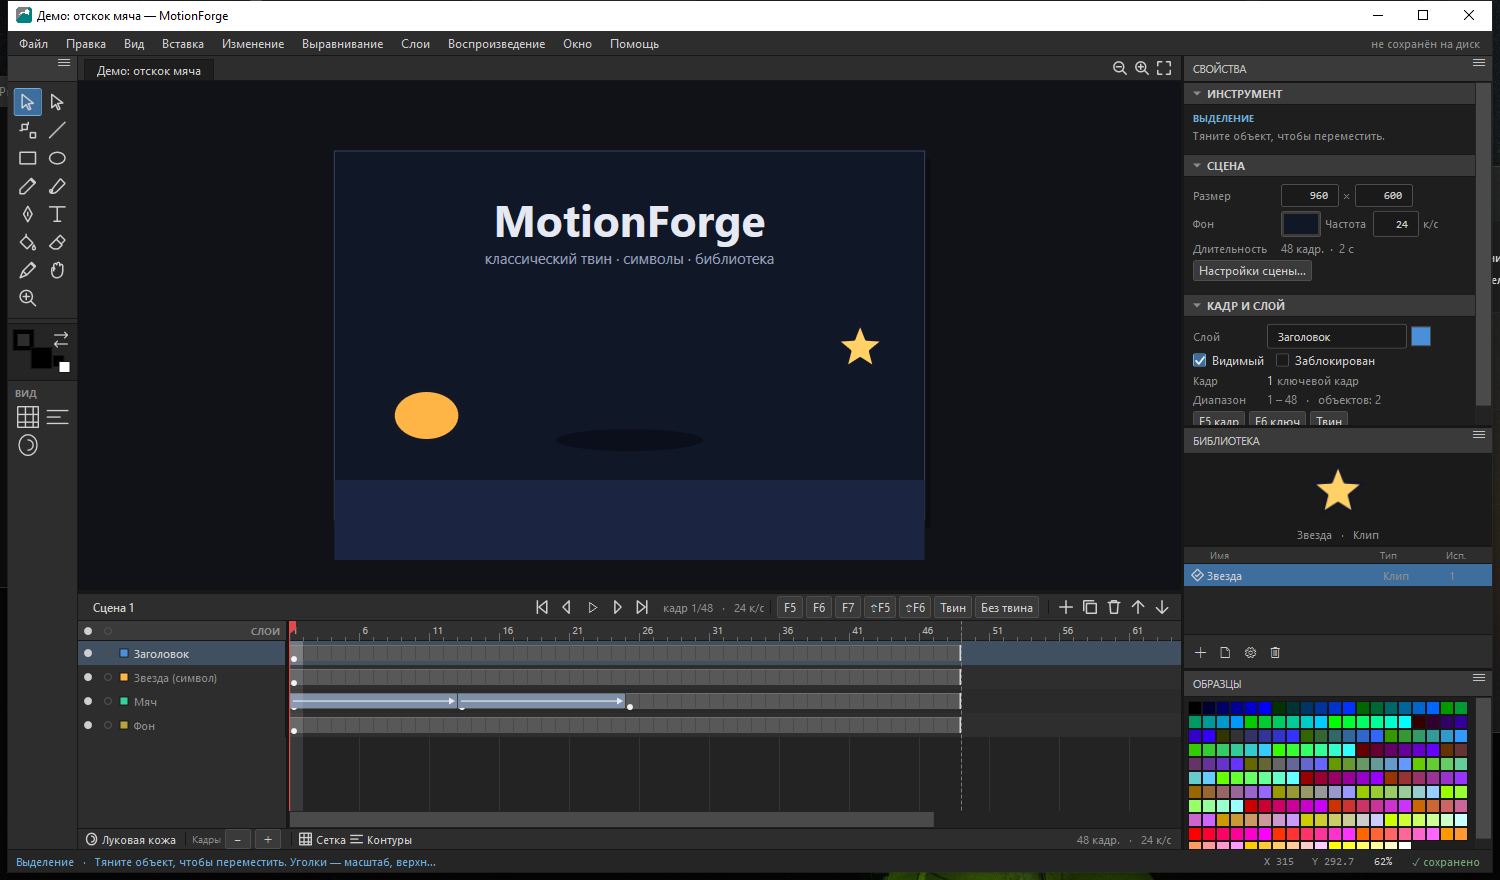
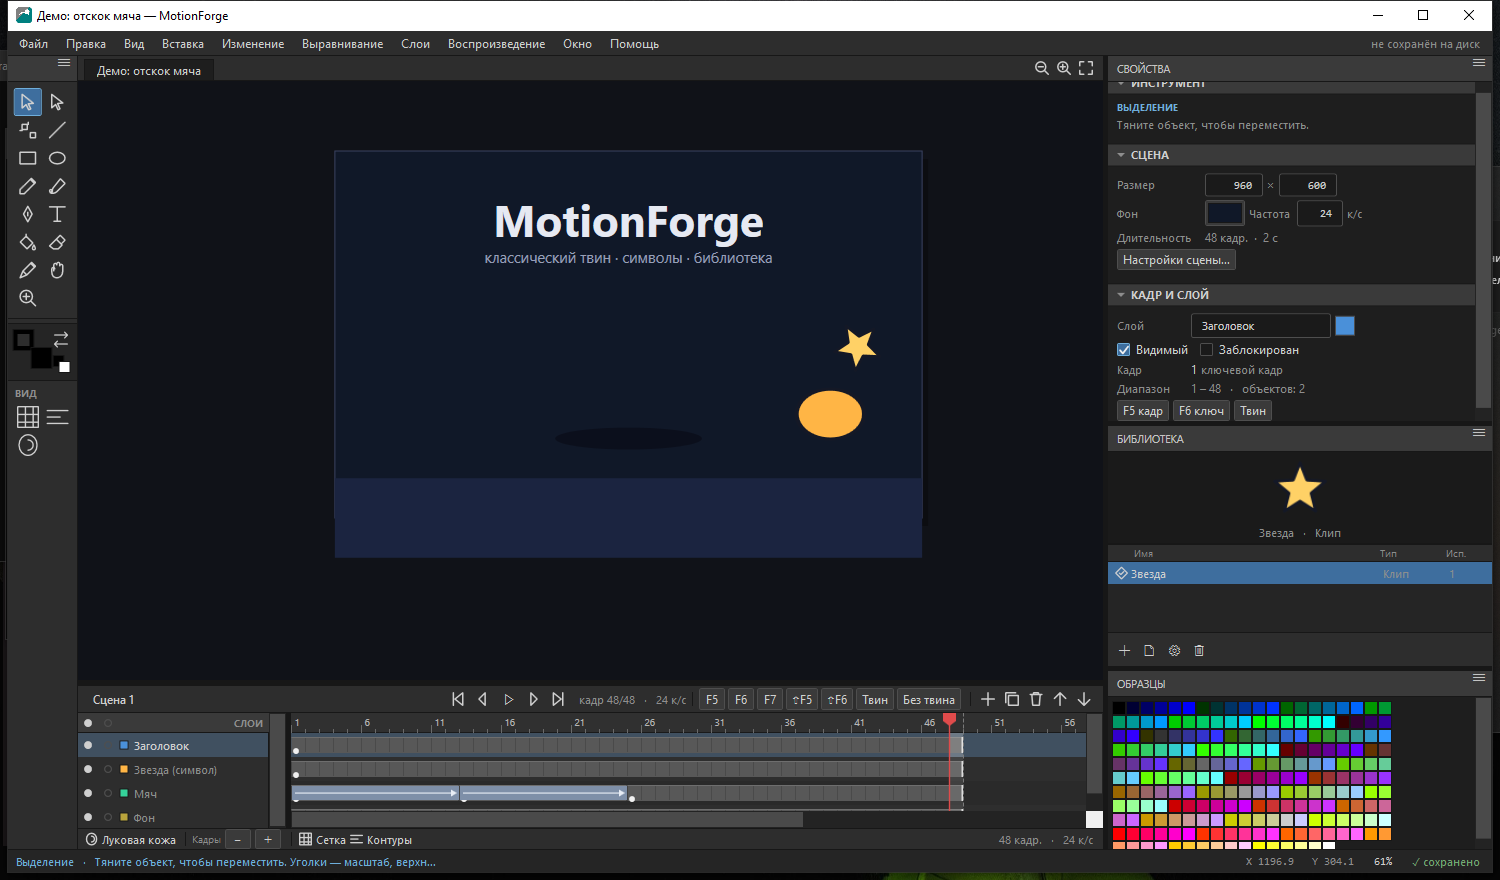
Исправлены горячие клавиши и разделители панелей
Горячие клавиши:
- ParseKey возвращал (Key)'E' — ASCII-код символа (69) вместо значения
  Key.E (48). Из-за сдвига вся таблица сочетаний работала неправильно:
  реальный Ctrl+Z попадал в «Ctrl+E» (экспорт, т.е. диалог сохранения файла),
  Ctrl+X копировал, Ctrl+Y дублировал, а Ctrl+C, Ctrl+V, Ctrl+K и Ctrl+O
  вообще не срабатывали.
- Разбор сочетаний вынесен в Services/Hotkeys.cs (+ Describe для подсказок).
- В --selftest добавлен блок проверок: разбор букв и цифр, отсутствие
  конфликтов сочетаний, Ctrl+Z → «Отменить», Ctrl+S → «Сохранить»,
  Delete → удаление, инструменты на R и Z.

Разделители панелей:
- GridSplitter'ам заданы ResizeDirection и ResizeBehavior, курсоры SizeNS /
  SizeWE, зона захвата увеличена с 3 до 5 px. При HorizontalAlignment=Stretch
  и VerticalAlignment=Stretch направление определялось WPF неверно, поэтому
  панели при перетаскивании разделителей «дёргались» не в ту сторону.

Автотест: 76 проверок, 0 ошибок.

diff --git a/MainWindow.xaml b/MainWindow.xaml
@@ -43,7 +43,7 @@
       <Grid.ColumnDefinitions>
         <ColumnDefinition x:Name="ToolsColumn" Width="70" MinWidth="0" />
         <ColumnDefinition Width="*" MinWidth="360" />
-        <ColumnDefinition Width="3" />
+        <ColumnDefinition Width="5" />
         <ColumnDefinition x:Name="RightColumn" Width="308" MinWidth="210" />
       </Grid.ColumnDefinitions>
 
@@ -67,7 +67,7 @@
         <Grid.RowDefinitions>
           <RowDefinition Height="25" />
           <RowDefinition Height="*" MinHeight="150" />
-          <RowDefinition Height="3" />
+          <RowDefinition Height="5" />
           <RowDefinition x:Name="TimelineRow" Height="256" MinHeight="118" />
         </Grid.RowDefinitions>
 
@@ -84,7 +84,8 @@
           <views:StageView x:Name="Stage" ClipToBounds="True" />
         </Border>
 
-        <GridSplitter Grid.Row="2" Height="3" HorizontalAlignment="Stretch" VerticalAlignment="Stretch"
+        <GridSplitter Grid.Row="2" Height="5" HorizontalAlignment="Stretch" VerticalAlignment="Stretch"
+                      ResizeDirection="Rows" ResizeBehavior="PreviousAndNext" Cursor="SizeNS"
                       Background="{StaticResource Line}" />
 
         <Border Grid.Row="3" Background="{StaticResource Panel}" BorderBrush="{StaticResource Line}"
@@ -110,7 +111,7 @@
             <Grid Grid.Row="1">
               <Grid.ColumnDefinitions>
                 <ColumnDefinition x:Name="LayersColumn" Width="208" MinWidth="120" />
-                <ColumnDefinition Width="3" />
+                <ColumnDefinition Width="5" />
                 <ColumnDefinition Width="*" />
               </Grid.ColumnDefinitions>
 
@@ -119,7 +120,8 @@
                 <ContentControl x:Name="LayersHost" />
               </ScrollViewer>
 
-              <GridSplitter Grid.Column="1" Width="3" HorizontalAlignment="Stretch" VerticalAlignment="Stretch"
+              <GridSplitter Grid.Column="1" Width="5" HorizontalAlignment="Stretch" VerticalAlignment="Stretch"
+                            ResizeDirection="Columns" ResizeBehavior="PreviousAndNext" Cursor="SizeWE"
                             Background="{StaticResource Line}" />
 
               <ScrollViewer x:Name="TimelineScroll" Grid.Column="2" Background="{StaticResource Bg2}"
@@ -141,16 +143,17 @@
         </Border>
       </Grid>
 
-      <GridSplitter Grid.Column="2" Width="3" HorizontalAlignment="Stretch" VerticalAlignment="Stretch"
+      <GridSplitter Grid.Column="2" Width="5" HorizontalAlignment="Stretch" VerticalAlignment="Stretch"
+                    ResizeDirection="Columns" ResizeBehavior="PreviousAndNext" Cursor="SizeWE"
                     Background="{StaticResource Line}" />
 
       <!-- правая колонка: свойства, библиотека, образцы -->
       <Grid Grid.Column="3">
         <Grid.RowDefinitions>
           <RowDefinition x:Name="PropertiesRow" Height="*" MinHeight="150" />
-          <RowDefinition Height="3" />
+          <RowDefinition Height="5" />
           <RowDefinition x:Name="LibraryRow" Height="240" MinHeight="86" />
-          <RowDefinition Height="3" />
+          <RowDefinition Height="5" />
           <RowDefinition x:Name="SwatchesRow" Height="178" MinHeight="56" />
         </Grid.RowDefinitions>
 
@@ -163,7 +166,8 @@
           <ScrollViewer x:Name="PropertiesBodyHost" Grid.Row="1" VerticalScrollBarVisibility="Auto"
                         HorizontalScrollBarVisibility="Disabled" />
         </Grid>
-        <GridSplitter Grid.Row="1" Height="3" HorizontalAlignment="Stretch" VerticalAlignment="Stretch"
+        <GridSplitter Grid.Row="1" Height="5" HorizontalAlignment="Stretch" VerticalAlignment="Stretch"
+                      ResizeDirection="Rows" ResizeBehavior="PreviousAndNext" Cursor="SizeNS"
                       Background="{StaticResource Line}" />
         <Grid x:Name="LibraryDock" Grid.Row="2">
           <Grid.RowDefinitions>
@@ -173,7 +177,8 @@
           <ContentControl x:Name="LibraryHeaderHost" />
           <ContentControl x:Name="LibraryBodyHost" Grid.Row="1" />
         </Grid>
-        <GridSplitter Grid.Row="3" Height="3" HorizontalAlignment="Stretch" VerticalAlignment="Stretch"
+        <GridSplitter Grid.Row="3" Height="5" HorizontalAlignment="Stretch" VerticalAlignment="Stretch"
+                      ResizeDirection="Rows" ResizeBehavior="PreviousAndNext" Cursor="SizeNS"
                       Background="{StaticResource Line}" />
         <Grid x:Name="SwatchesDock" Grid.Row="4">
           <Grid.RowDefinitions>

diff --git a/Services/Hotkeys.cs b/Services/Hotkeys.cs
@@ -1,0 +1,110 @@
+using System.Windows.Input;
+
+namespace MotionForge.Services;
+
+/// <summary>
+/// Разбор строк вида «Ctrl+Shift+S», «F5», «Delete» в пару «модификаторы + клавиша».
+/// ВАЖНО: буквы переводятся в <see cref="Key"/> через <c>Key.A + смещение</c>, а не приведением
+/// кода символа — иначе значение получается сдвинутым (Value = ASCII-код) и вся таблица
+/// горячих клавиш ломается.
+/// </summary>
+public static class Hotkeys
+{
+    public static (ModifierKeys Mods, Key Key) Parse(string spec)
+    {
+        ModifierKeys mods = ModifierKeys.None;
+        Key key = Key.None;
+        if (string.IsNullOrWhiteSpace(spec)) return (mods, key);
+        foreach (string raw in spec.Split('+'))
+        {
+            string part = raw.Trim();
+            switch (part)
+            {
+                case "Ctrl": mods |= ModifierKeys.Control; break;
+                case "Shift": mods |= ModifierKeys.Shift; break;
+                case "Alt": mods |= ModifierKeys.Alt; break;
+                case "Win": mods |= ModifierKeys.Windows; break;
+                default: key = ParseKey(part); break;
+            }
+        }
+        return (mods, key);
+    }
+
+    public static Key ParseKey(string name)
+    {
+        if (string.IsNullOrEmpty(name)) return Key.None;
+        switch (name)
+        {
+            case "Delete": return Key.Delete;
+            case "Back": return Key.Back;
+            case "Space": return Key.Space;
+            case "Home": return Key.Home;
+            case "End": return Key.End;
+            case "Up": return Key.Up;
+            case "Down": return Key.Down;
+            case "Left": return Key.Left;
+            case "Right": return Key.Right;
+            case "Enter": return Key.Enter;
+            case "Tab": return Key.Tab;
+            case "Escape": return Key.Escape;
+            case "Insert": return Key.Insert;
+            case "PageUp": return Key.PageUp;
+            case "PageDown": return Key.PageDown;
+            case "OemPlus": return Key.OemPlus;
+            case "OemMinus": return Key.OemMinus;
+            case "OemComma": return Key.OemComma;
+            case "OemPeriod": return Key.OemPeriod;
+            case "OemQuotes": return Key.OemQuotes;
+        }
+        if (name.Length == 1)
+        {
+            char c = name[0];
+            if (c >= 'A' && c <= 'Z') return Key.A + (c - 'A');
+            if (c >= 'a' && c <= 'z') return Key.A + (c - 'a');
+            if (c >= '0' && c <= '9') return Key.D0 + (c - '0');
+        }
+        if (name.Length == 2 && name[0] == 'F' && char.IsDigit(name[1]))
+        {
+            int n = name[1] - '1';
+            if (n < 0 || n > 23) return Key.None;
+            return Key.F1 + n;
+        }
+        if (name.Length == 2 && name[0] == 'D' && char.IsDigit(name[1]))
+            return Key.D0 + (name[1] - '0');
+        return Key.None;
+    }
+
+    /// <summary>Устойчивый идентификатор сочетания для таблицы горячих клавиш.</summary>
+    public static string Id(ModifierKeys mods, Key key)
+    {
+        if (key == Key.None) return null;
+        return (int)mods + ":" + (int)key;
+    }
+
+    public static string IdOf(string spec)
+    {
+        var (mods, key) = Parse(spec);
+        return Id(mods, key);
+    }
+
+    /// <summary>Человекочитаемое имя сочетания (для справки и подсказок).</summary>
+    public static string Describe(string spec)
+    {
+        if (string.IsNullOrWhiteSpace(spec)) return "";
+        var (mods, key) = Parse(spec);
+        if (key == Key.None) return spec;
+        string text = "";
+        if ((mods & ModifierKeys.Control) != 0) text += "Ctrl+";
+        if ((mods & ModifierKeys.Shift) != 0) text += "Shift+";
+        if ((mods & ModifierKeys.Alt) != 0) text += "Alt+";
+        return text + KeyName(key);
+    }
+
+    private static string KeyName(Key key)
+    {
+        if (key >= Key.A && key <= Key.Z) return ((char)('A' + (key - Key.A))).ToString();
+        if (key >= Key.D0 && key <= Key.D9) return ((char)('0' + (key - Key.D0))).ToString();
+        if (key >= Key.F1 && key <= Key.F24) return "F" + (1 + (key - Key.F1));
+        return key.ToString();
+    }
+}

diff --git a/Services/SelfTest.cs b/Services/SelfTest.cs
@@ -278,6 +278,55 @@ public static class SelfTest
         }
         catch (Exception ex) { Check("Экспорт (исключение)", false, ex.GetType().Name + ": " + ex.Message + " :: " + FirstStack(ex)); }
 
+        /* ---------- горячие клавиши ---------- */
+        try
+        {
+            Check("Буква A разбирается в Key.A", Hotkeys.ParseKey("A") == System.Windows.Input.Key.A);
+            Check("Буква Z разбирается в Key.Z (69)", (int)Hotkeys.ParseKey("Z") == 69, ((int)Hotkeys.ParseKey("Z")).ToString());
+            Check("Разные буквы дают разные клавиши", Hotkeys.ParseKey("E") != Hotkeys.ParseKey("Z")
+                && Hotkeys.ParseKey("V") != Hotkeys.ParseKey("A"));
+            Check("Ctrl+D1 разбирается (масштаб 100%)", Hotkeys.IdOf("Ctrl+D1") != null, Hotkeys.IdOf("Ctrl+D1") ?? "null");
+
+            var table = new Dictionary<string, Cmd>();
+            var missing = new List<string>();
+            var collisions = new List<string>();
+            foreach (Cmd command in Commands.All)
+            {
+                if (string.IsNullOrWhiteSpace(command.Keys)) continue;
+                string id = Hotkeys.IdOf(command.Keys);
+                if (id == null) { missing.Add(command.Id + " (" + command.Keys + ")"); continue; }
+                if (table.ContainsKey(id)) { collisions.Add(table[id].Id + " / " + command.Id + " (" + command.Keys + ")"); continue; }
+                table[id] = command;
+            }
+            Check("Каждое сочетание распознаётся", missing.Count == 0, string.Join(", ", missing));
+            Check("Нет конфликтов сочетаний", collisions.Count == 0, string.Join(", ", collisions));
+
+            string Ctrl(System.Windows.Input.Key k) => Hotkeys.Id(System.Windows.Input.ModifierKeys.Control, k);
+            string Plain(System.Windows.Input.Key k) => Hotkeys.Id(System.Windows.Input.ModifierKeys.None, k);
+
+            bool Runs(string id, string expected)
+            {
+                return table.TryGetValue(id, out Cmd c) && c.Id == expected;
+            }
+            Check("Ctrl+Z выполняет «Отменить»", Runs(Ctrl(System.Windows.Input.Key.Z), "edit.undo"),
+                table.TryGetValue(Ctrl(System.Windows.Input.Key.Z), out Cmd u) ? u.Id : "нет");
+            Check("Ctrl+S выполняет «Сохранить»", Runs(Ctrl(System.Windows.Input.Key.S), "file.save"));
+            Check("Ctrl+C выполняет «Копировать»", Runs(Ctrl(System.Windows.Input.Key.C), "edit.copy"));
+            Check("Ctrl+K открывает палитру команд", Runs(Ctrl(System.Windows.Input.Key.K), "help.palette"));
+            Check("Удаление по клавише Delete", Runs(Plain(System.Windows.Input.Key.Delete), "edit.delete"));
+            Check("Инструмент «прямоугольник» на R", Runs(Plain(System.Windows.Input.Key.R), "tool.rect"));
+            Check("Инструмент «масштаб» на Z", Runs(Plain(System.Windows.Input.Key.Z), "tool.zoom"));
+
+            int letters = 0;
+            foreach (string spec in new[] { "A", "B", "C", "D", "V", "Y", "Z" })
+            {
+                int vk = (int)Hotkeys.ParseKey(spec);
+                if (vk >= 44 && vk <= 69) letters++;
+            }
+            Check("Все буквенные сочетания в диапазоне 44…69", letters == 7, letters + "/7");
+        }
+        catch (Exception ex) { Check("Горячие клавиши (исключение)", false, ex.GetType().Name + ": " + ex.Message); }
+
         /* ---------- отчёт ---------- */
         var report = new StringBuilder();
         report.AppendLine("MotionForge — автотест ядра");

diff --git a/MainWindow.xaml.cs b/MainWindow.xaml.cs
@@ -606,68 +606,10 @@ public partial class MainWindow : Window, IAppShell
         foreach (Cmd command in Commands.All)
         {
             if (string.IsNullOrWhiteSpace(command.Keys)) continue;
-            var (mods, key) = ParseKeys(command.Keys);
-            string id = KeyId(mods, key);
+            string id = Hotkeys.IdOf(command.Keys);
             if (id == null || _hotkeys.ContainsKey(id)) continue;
             _hotkeys[id] = command;
         }
-    }
-
-    private static (ModifierKeys mods, Key key) ParseKeys(string spec)
-    {
-        ModifierKeys mods = ModifierKeys.None;
-        Key key = Key.None;
-        foreach (string raw in spec.Split('+'))
-        {
-            string part = raw.Trim();
-            switch (part)
-            {
-                case "Ctrl": mods |= ModifierKeys.Control; break;
-                case "Shift": mods |= ModifierKeys.Shift; break;
-                case "Alt": mods |= ModifierKeys.Alt; break;
-                default: key = ParseKey(part); break;
-            }
-        }
-        return (mods, key);
-    }
-
-    private static Key ParseKey(string name)
-    {
-        if (string.IsNullOrEmpty(name)) return Key.None;
-        switch (name)
-        {
-            case "Delete": return Key.Delete;
-            case "Back": return Key.Back;
-            case "Space": return Key.Space;
-            case "Home": return Key.Home;
-            case "End": return Key.End;
-            case "Up": return Key.Up;
-            case "Down": return Key.Down;
-            case "Left": return Key.Left;
-            case "Right": return Key.Right;
-            case "Enter": return Key.Enter;
-            case "Escape": return Key.Escape;
-            case "OemPlus": return Key.OemPlus;
-            case "OemMinus": return Key.OemMinus;
-            case "OemComma": return Key.OemComma;
-            case "OemPeriod": return Key.OemPeriod;
-            case "OemQuotes": return Key.OemQuotes;
-        }
-        if (name.Length == 1)
-        {
-            char c = name[0];
-            if (c >= 'A' && c <= 'Z') return (Key)c;
-            if (c >= '0' && c <= '9') return Key.D0 + (c - '0');
-        }
-        if (name.Length == 2 && name[0] == 'F' && char.IsDigit(name[1]))
-            return Key.F1 + (name[1] - '1');
-        return Key.None;
-    }
-
-    private static string KeyId(ModifierKeys mods, Key key)
-    {
-        if (key == Key.None) return null;
-        return (int)mods + ":" + (int)key;
     }
 
     protected override void OnPreviewKeyDown(KeyEventArgs e)
@@ -680,7 +622,7 @@ public partial class MainWindow : Window, IAppShell
 
         if (IsTextInputFocused())
         {
-            string onlyId = KeyId(mods, key);
+            string onlyId = Hotkeys.Id(mods, key);
             if (onlyId == null || !_hotkeys.TryGetValue(onlyId, out Cmd allowed) || !AllowedWhileTyping.Contains(allowed.Id))
                 return;
             RunCommand(allowed);
@@ -691,7 +633,7 @@ public partial class MainWindow : Window, IAppShell
         // Пробел на сцене — временная «рука» (панорама), а не воспроизведение.
         if (key == Key.Space && mods == ModifierKeys.None && Stage.IsKeyboardFocusWithin) return;
 
-        string id = KeyId(mods, key);
+        string id = Hotkeys.Id(mods, key);
         if (id == null) return;
         if (_hotkeys.TryGetValue(id, out Cmd command))
         {
